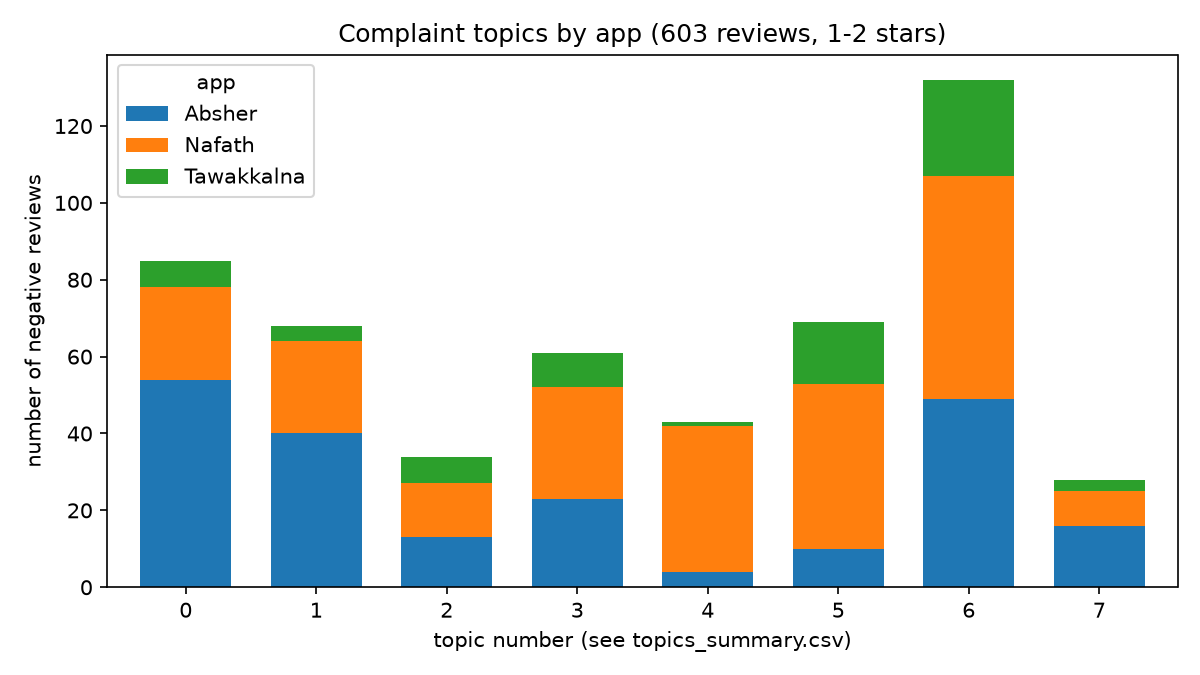
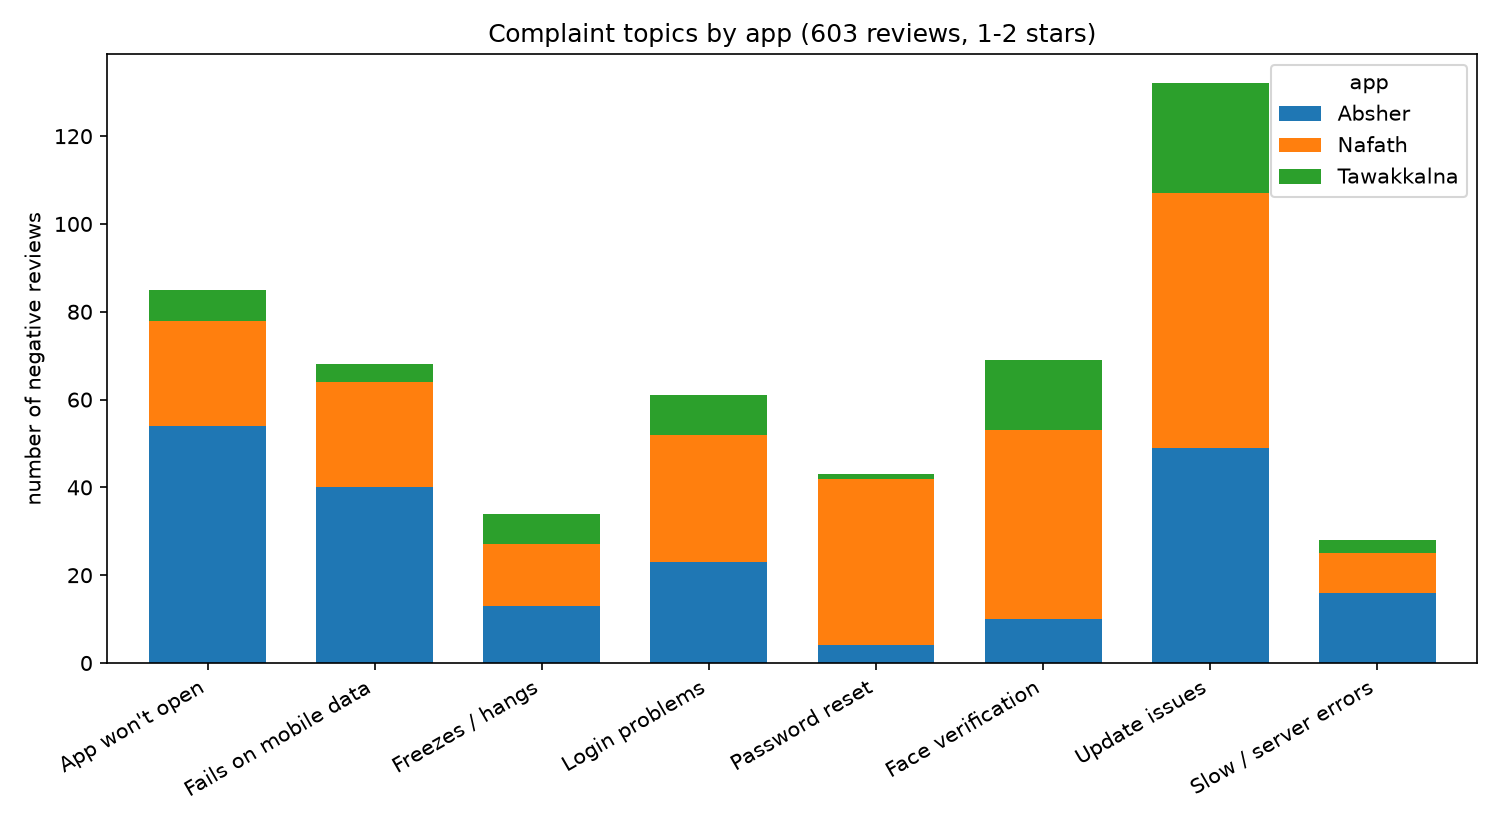
Label topic names on the complaints chart

diff --git a/04_topics.py b/04_topics.py
@@ -118,13 +118,16 @@ def main() -> None:
 
     # How many complaints per topic, split by app (counts, so bars are comparable)
     counts = pd.crosstab(neg["topic"], neg["app"]).reindex(range(N_TOPICS), fill_value=0)
-    fig, ax = plt.subplots(figsize=(8, 4.5))
+    fig, ax = plt.subplots(figsize=(10, 5.5))
     counts.plot(kind="bar", stacked=True, ax=ax, width=0.7)
-    ax.set_xlabel("topic number (see topics_summary.csv)")
+    ax.set_xticklabels(["App won't open", "Fails on mobile data", "Freezes / hangs",
+                        "Login problems", "Password reset", "Face verification",
+                        "Update issues", "Slow / server errors"],
+                       rotation=30, ha="right")
+    ax.set_xlabel("")
     ax.set_ylabel("number of negative reviews")
     ax.set_title(f"Complaint topics by app ({len(neg)} reviews, 1-2 stars)")
     ax.legend(title="app")
-    plt.xticks(rotation=0)
     fig.tight_layout()
     fig.savefig(OUT_DIR / "topics_by_app.png", dpi=150)
     print("Saved: outputs/topics_summary.csv, negative_reviews_topics.csv, topics_by_app.png")
